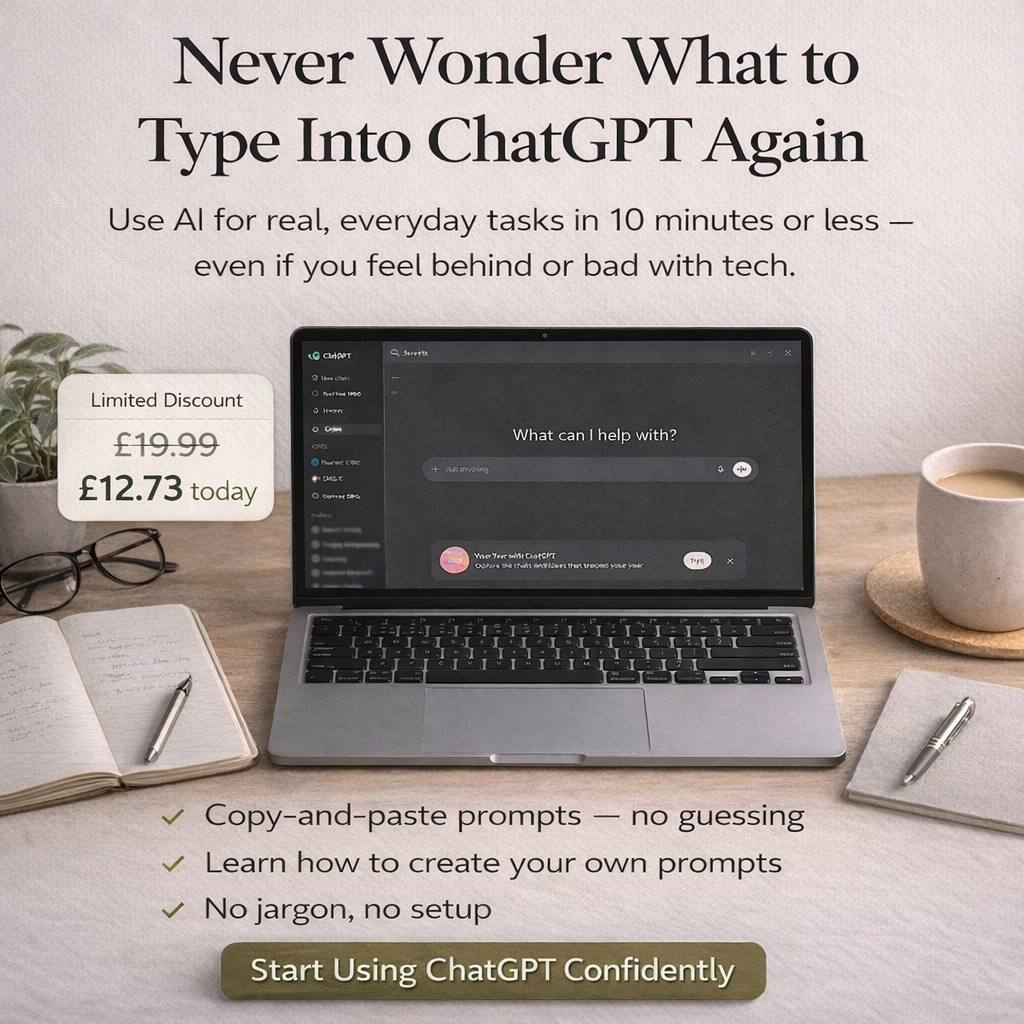
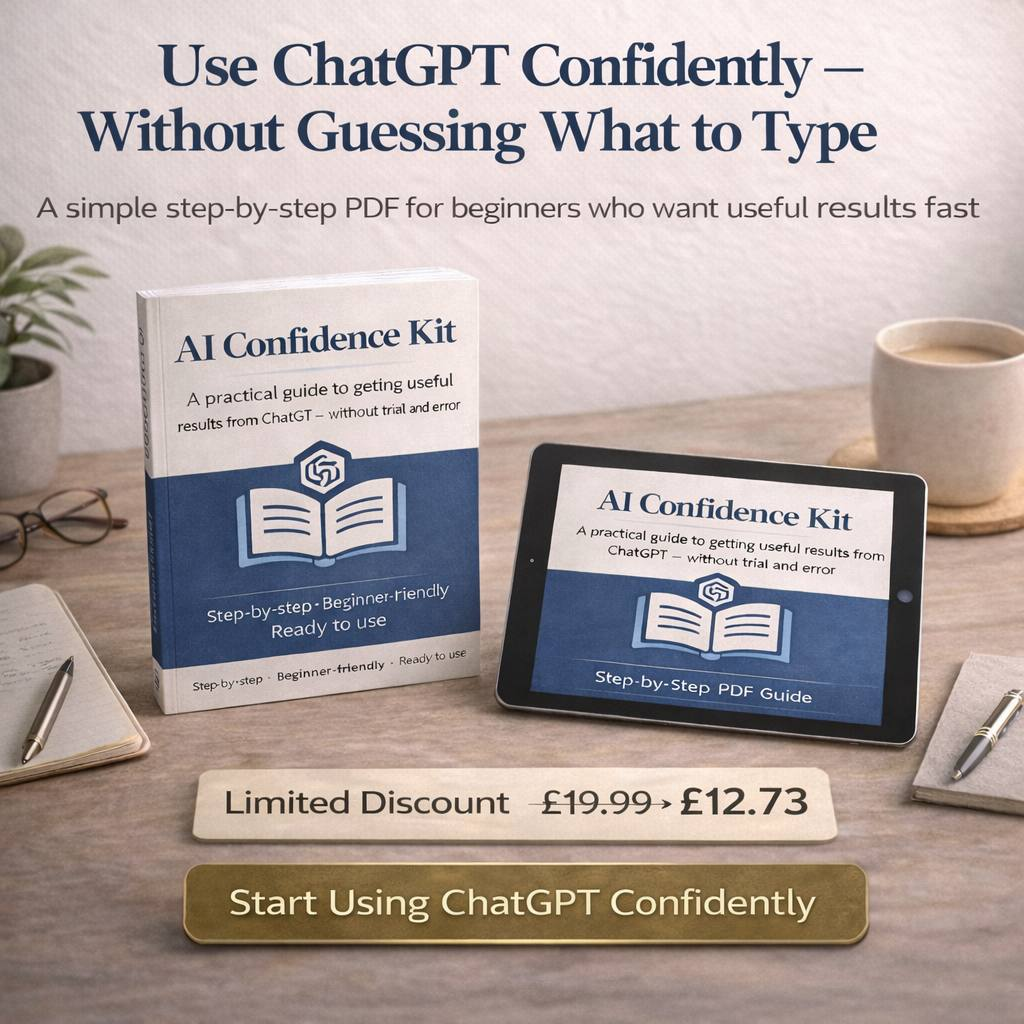
reassurance added

diff --git a/index.html b/index.html
@@ -793,7 +793,7 @@
             <div class="hero-content">
                 <div class="hero-text">
                     <h1>Never Wonder What to Type Into ChatGPT Again</h1>
-                    <p style="font-size: 16px; color: var(--color-text-light); margin-bottom: 20px; line-height: 1.5;">A short, beginner-friendly PDF guide showing you exactly how to use ChatGPT for everyday tasks, with examples, explanations, and ready-to-use templates.</p>
+                    <p style="font-size: 16px; color: var(--color-text-light); margin-bottom: 20px; line-height: 1.5;">A beginner-friendly PDF guide that teaches you how to write better prompts, fix bad results, and use ChatGPT confidently.</p>
                     <p class="hero-subheadline">Use AI for real, everyday tasks in 10 minutes or less — even if you feel behind, confused, or "bad with tech."</p>
                     
                     <ul class="hero-bullets-list">
@@ -960,6 +960,7 @@
             <h2>Stop Watching. Start Using AI with Real Confidence.</h2>
             <p class="section-subtitle">Gain clarity. Take control. Make better decisions, faster.</p>
             <a href="https://buy.stripe.com/eVqaEWbj52S8auI45IbZe00?prefilled_promo_code=EARLY33" class="cta-button" onclick="fbq('track', 'InitiateCheckout');">Start Using ChatGPT Confidently Today — £12.73</a>
+            <p class="cta-reassurance" style="margin-top: 12px; font-size: 14px;">Instant delivery · 100% money-back guarantee</p>
             <p class="cta-reassurance" style="margin-top: 14px;"><s style="opacity: 0.6;">£19</s> <strong style="color: var(--color-primary);">£12.73</strong> — Early sale price</p>
             <p class="cta-reassurance" style="margin-top: 8px;">Digital download · 100% money-back guarantee</p>
             <p class="cta-reassurance" style="margin-top: 16px; font-size: 15px;">Questions? <a class="inline-link" href="mailto:adsbyalfred@protonmail.com">adsbyalfred@protonmail.com</a></p>
